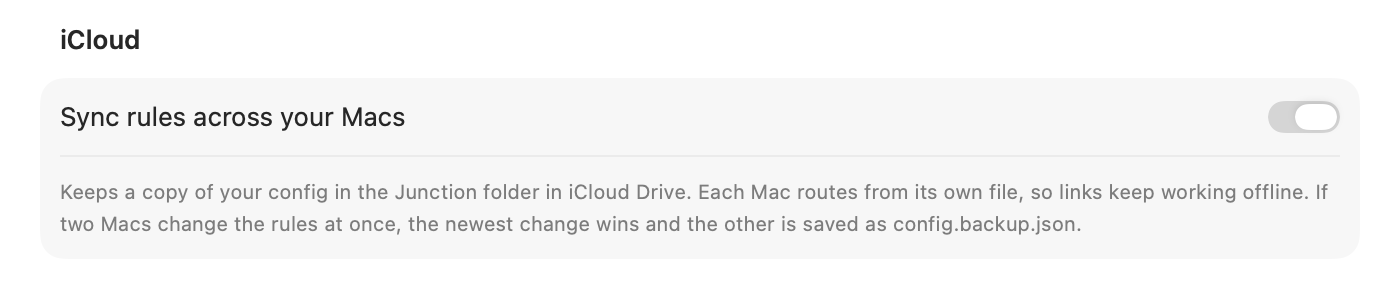
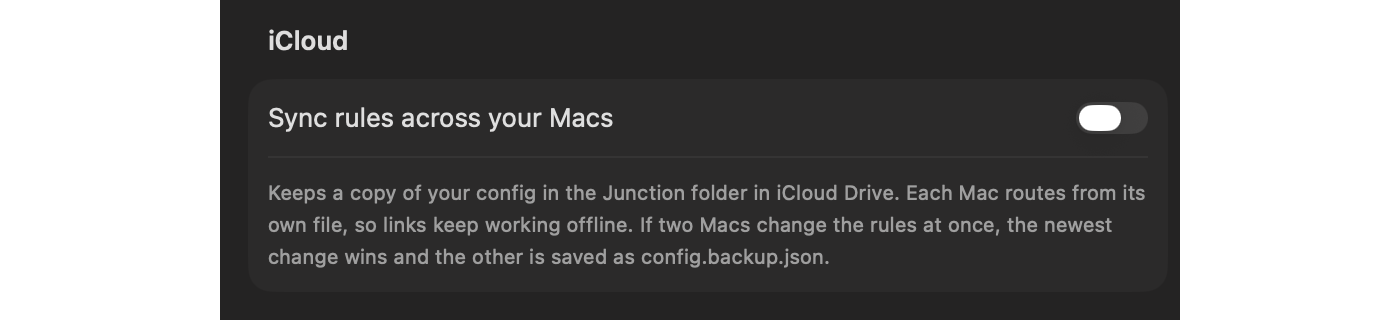
docs: dark-mode screenshots of Settings
Recaptured the Rules pane, the Deep Links pane, the Slack workspaces
section, the custom app editor and the iCloud section in dark mode, from a
demo copy with the same made-up config as before. Framing, crops and
padding match the light shots, so the pages are unchanged.

The iCloud shot shows the switch off. Turning it on in the demo copy would
mirror the demo rules into the real iCloud Drive folder, so the alt text
no longer says it's on. The rules menu and picker shots were already
dark.

Claude-Session: https://claude.ai/code/session_01PoL3aYKcna6G3stD5VVgbN

diff --git a/docs/use-cases/sync-rules-across-macs.md b/docs/use-cases/sync-rules-across-macs.md
@@ -22,7 +22,7 @@ $ junction config path
 
 Yes. Turn on **Sync rules across your Macs** under **Settings → General** on each Mac. Junction keeps a copy of your config in the Junction folder in iCloud Drive, under your own Apple account. There's no Junction account and no Junction server.
 
-![The iCloud section of Junction's General settings, with Sync rules across your Macs turned on](../assets/screenshots/sync-rules-across-macs/01-icloud-setting.png)
+![The iCloud section of Junction's General settings, with the Sync rules across your Macs switch](../assets/screenshots/sync-rules-across-macs/01-icloud-setting.png)
 
 Each Mac still routes from its own `config.json`, so links keep working offline and `junction test` reads the same file as always. iCloud Drive has to be on, and macOS may ask once for permission to access it.
 
